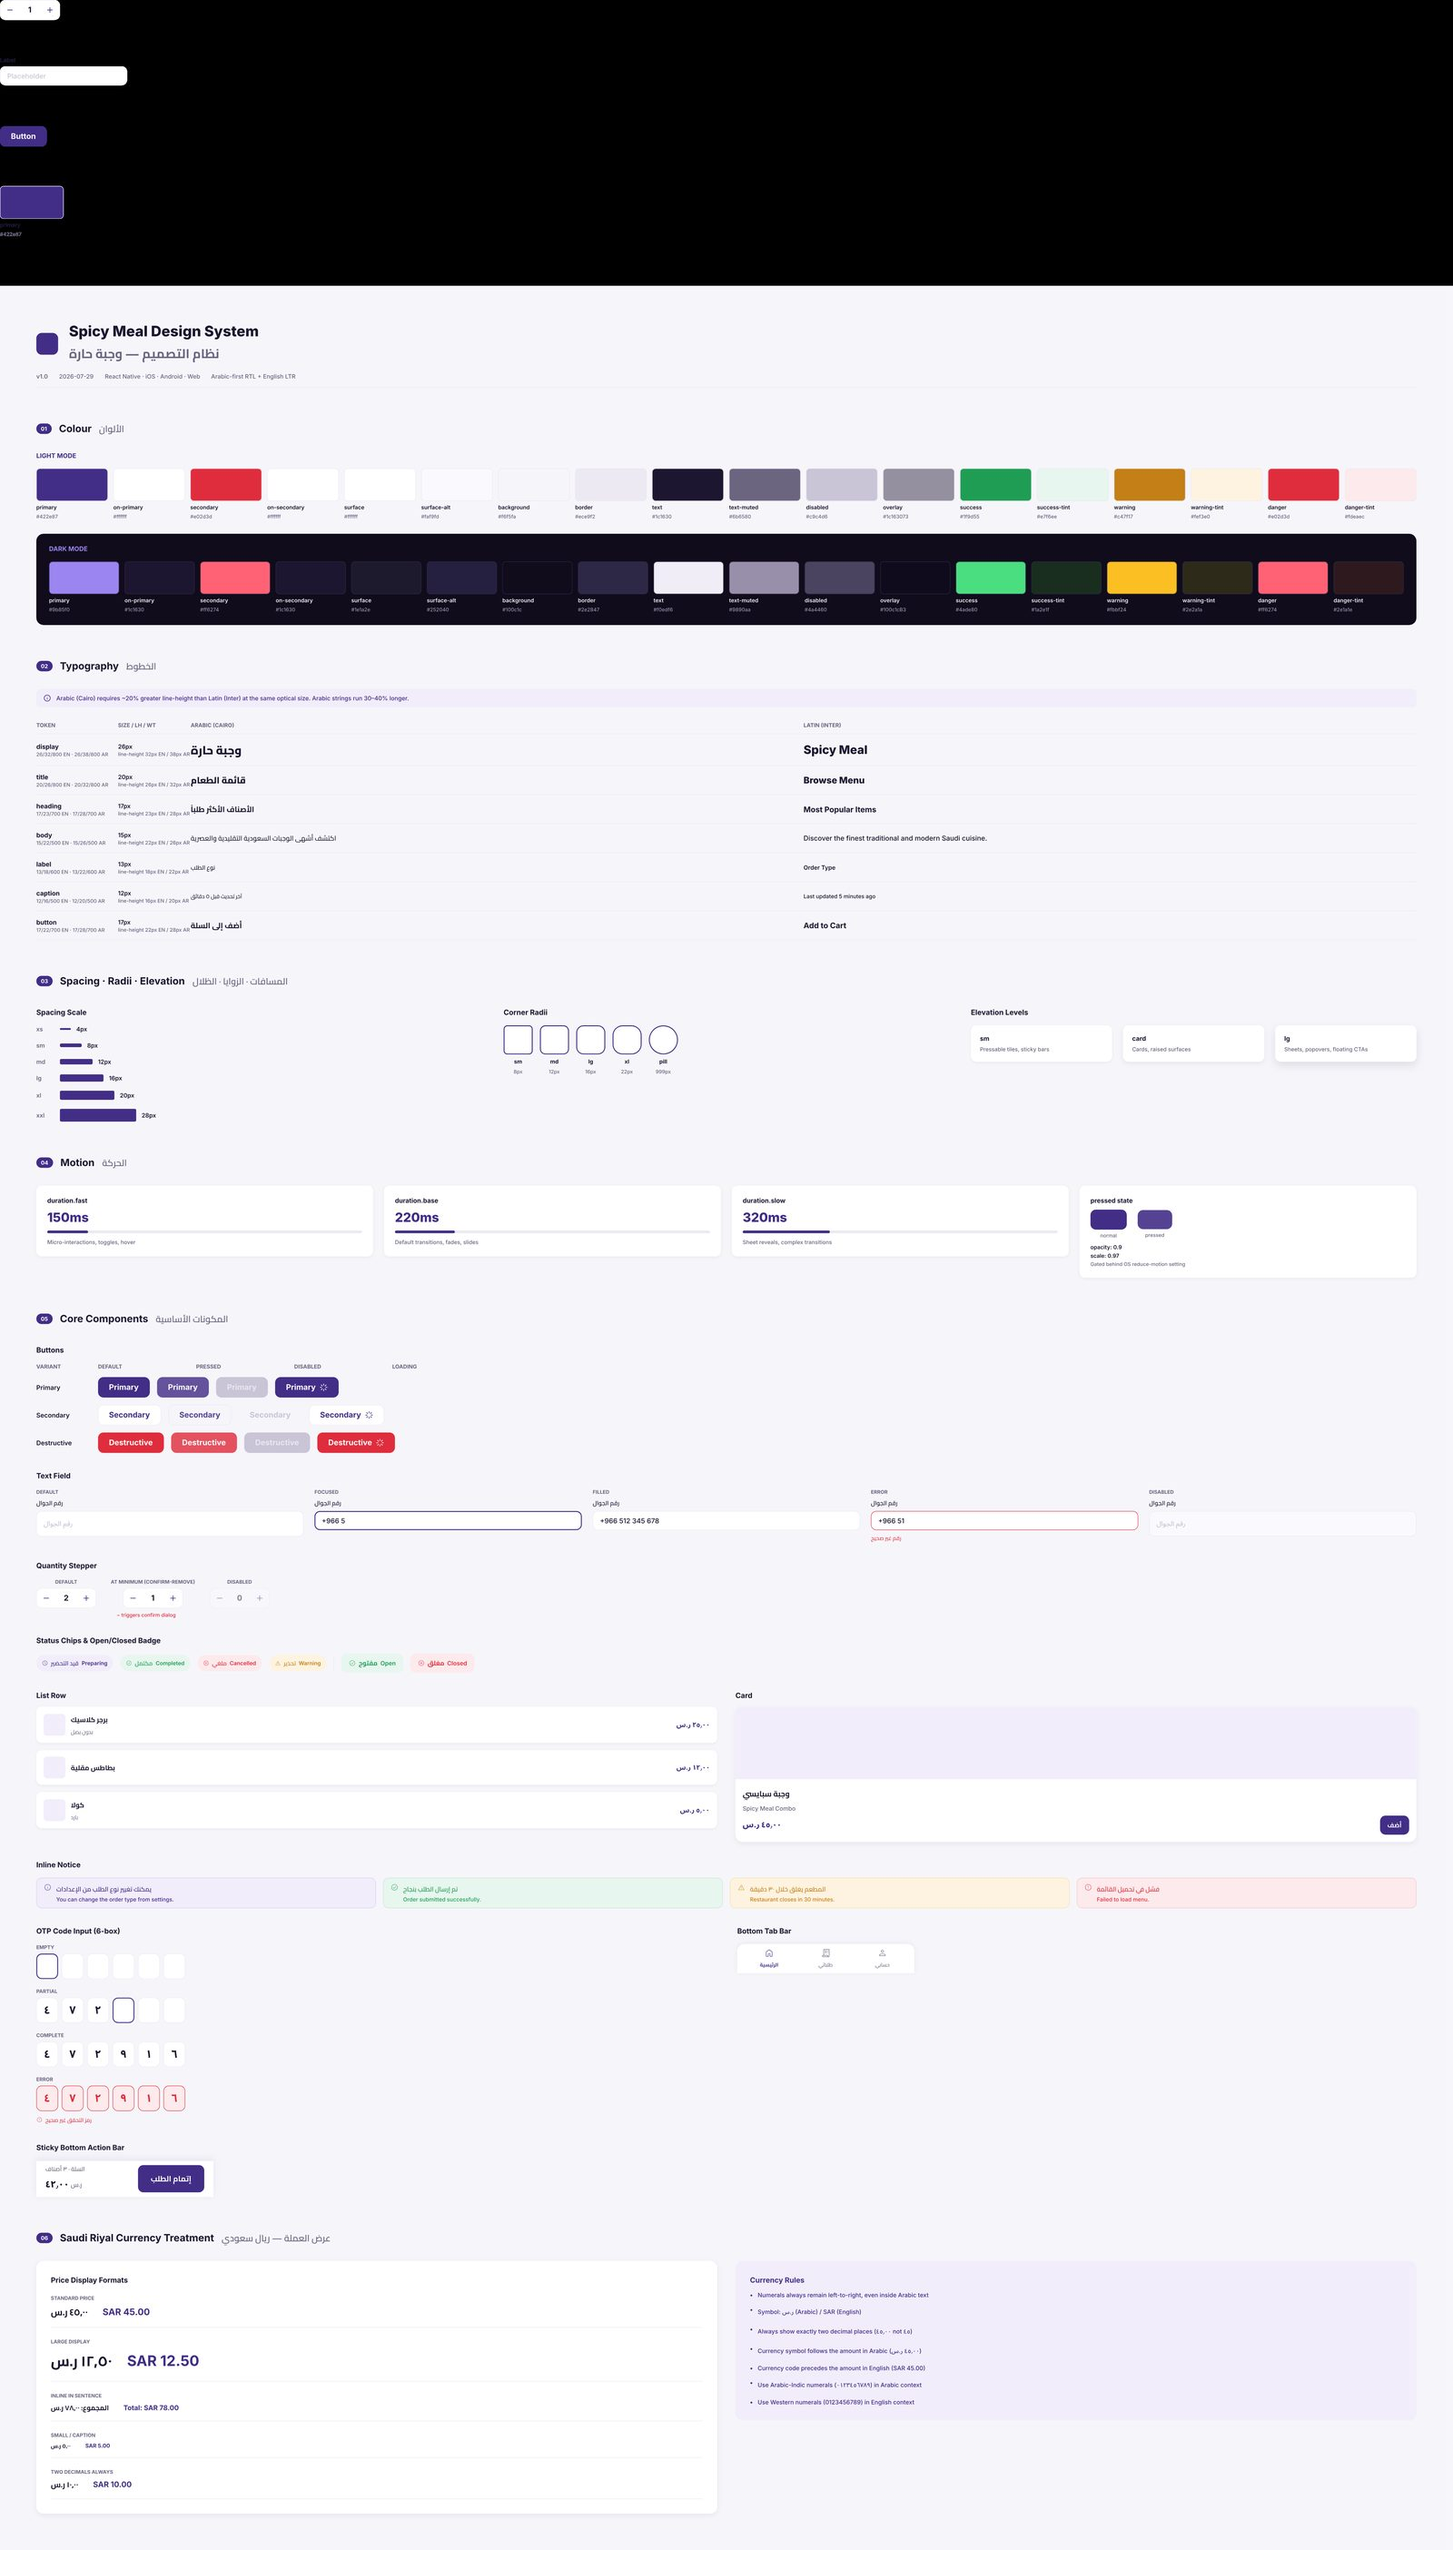
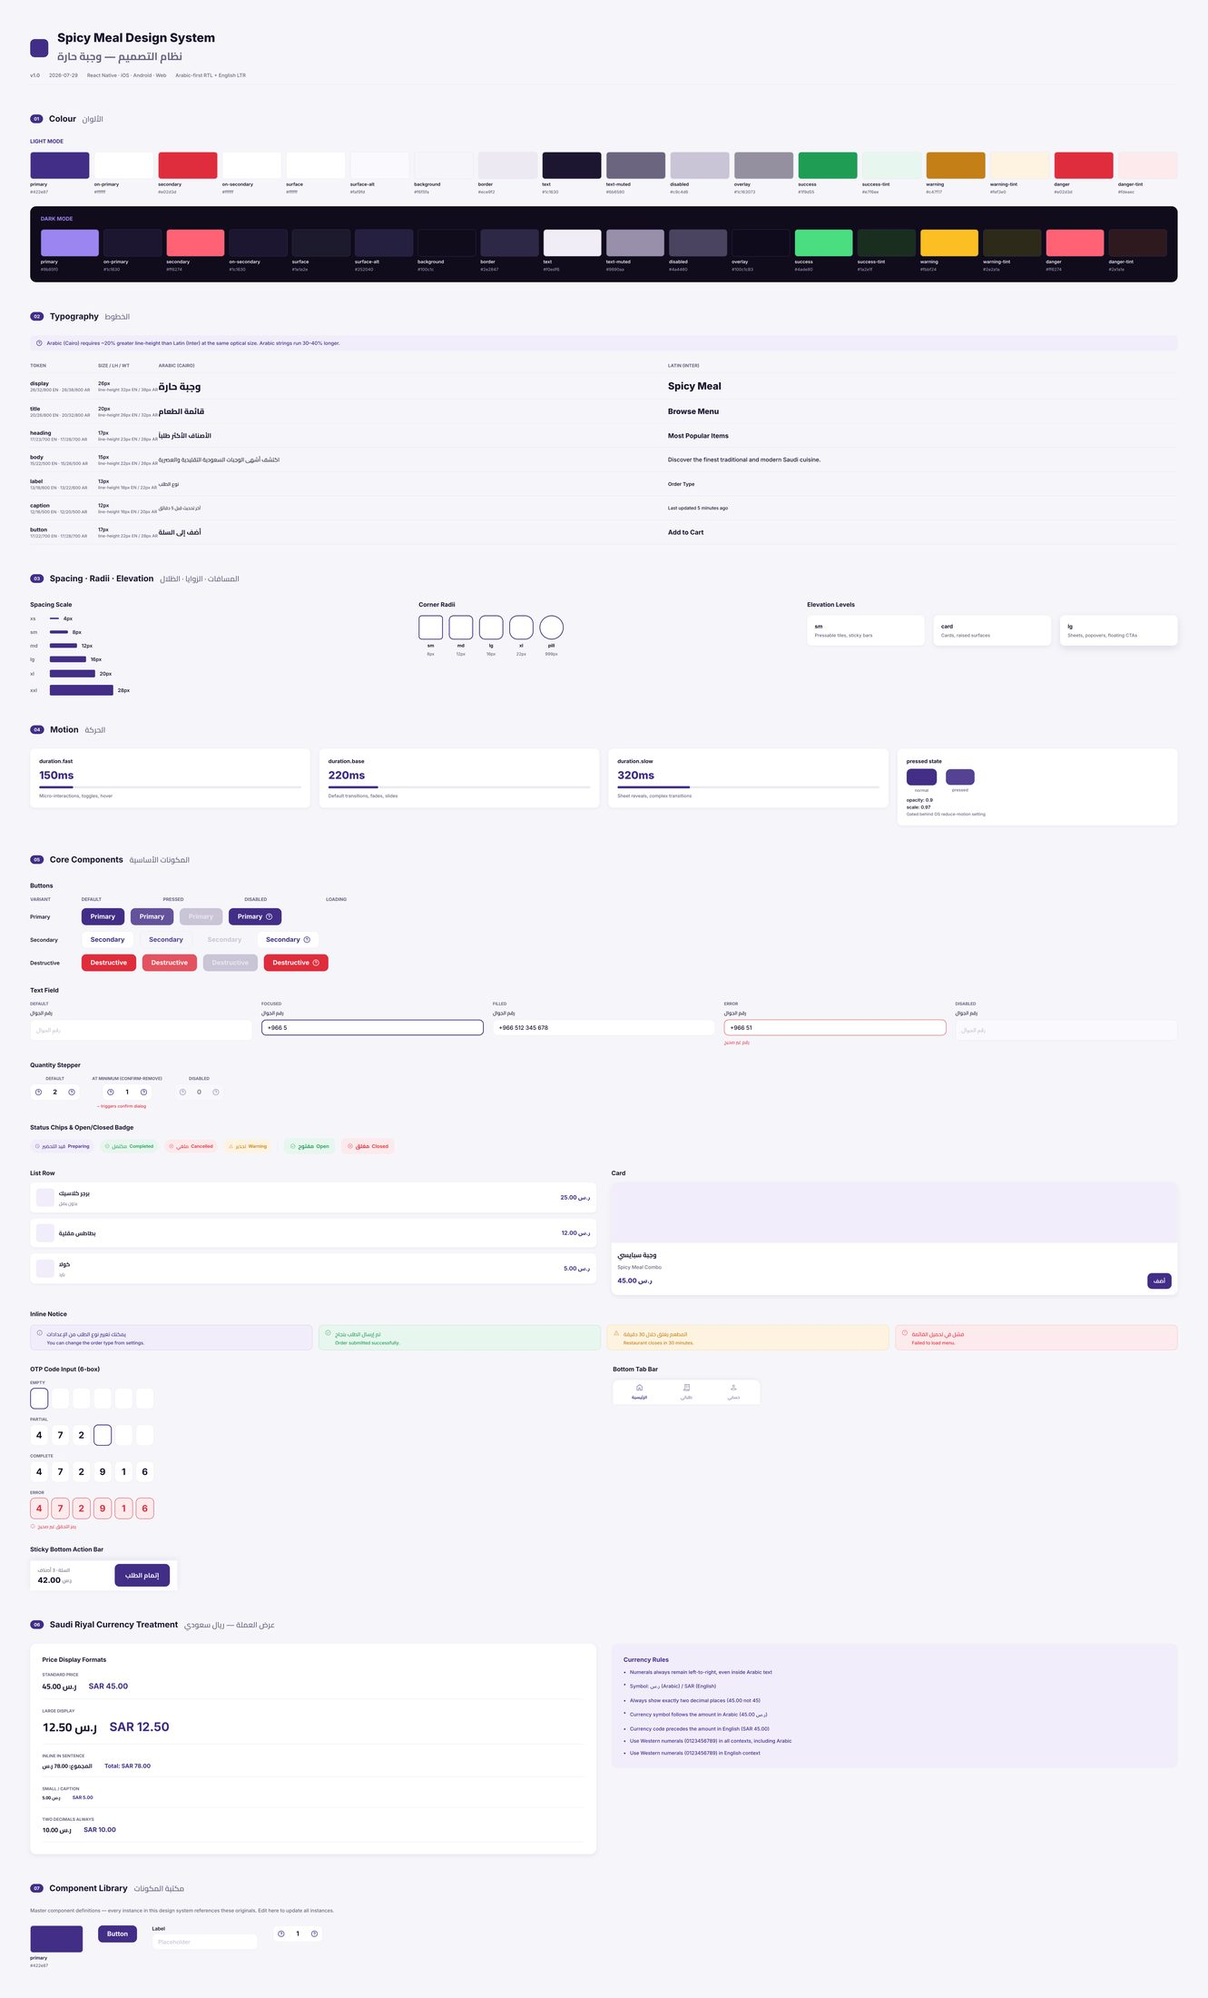
design: refinement pass complete — 34/34 verification checks pass
All eight .pen files refined in place. Closed defects, with evidence
reproducible via design/verify.py:

  C1  numerals      Western in rendered text across all 8 files
  C2  tab bar       طلباتي present, invented القائمة removed
  C3  RTL           Arabic runs right-aligned, punctuation at sentence end
  C4  admin shell   12 canonical tabs in all 3 admin files, 0 invented
  2.1 mirroring     brand at the start of the reading direction, both languages
  4.1 leaked copy   'No payment language.' removed
  4.2 leaked copy   'Awaiting branch assignment.' removed
  1.3 components    definitions moved into a labelled library section

Withdrawn as misdiagnosed: 1.1 and 6.1. What I called orphaned scratch
geometry is the reusable component library; deleting a definition would
break every instance referencing it.

Still open: 1.2, dark-mode contrast, which needs measuring rather than a
visual judgement.

Every system constraint survived the pass — verified by asserting the
presence of eleven constraint strings including 'no retry, refund, resend
or mark-paid', 'external delivery is disabled' and 'Disabling both
payment methods stops checkout entirely'.

No application code touched.

Claude-Session: https://claude.ai/code/session_013aE4qAWLr9uZqQniV5Sm13

diff --git a/docs/redesign/PENDEV_DEFECTS.md b/docs/redesign/PENDEV_DEFECTS.md
@@ -1,53 +1,78 @@
-# Pen.dev output — defect log (round 1)
+# Pen.dev output — defect log
 
-> Findings from reviewing the first generated pass, batch by batch. Each entry
-> is a correction to apply in a refinement pass, **not** a reason to regenerate
-> the batch — the underlying screens are sound.
+> Round 1 findings, and the evidence that each was closed by the refinement pass.
+> Reproduce the evidence at any time:
 >
-> Status key: `open` · `fixed` · `withdrawn` (raised in error) · `needs owner decision`.
-> Last updated 2026-07-29.
+> ```bash
+> python3 design/verify.py
+> ```
+>
+> The harness parses the `.pen` sources rather than judging exports by eye, so
+> every result below is checkable rather than an impression.
+>
+> Status key: `fixed` · `open` · `withdrawn` (raised in error) · `needs owner decision`.
+>
+> **Last run: 34 / 34 checks passed** — 2026-07-29, after the refinement pass.
 
 ---
 
 ## Cross-batch consistency
 
-These matter most, because they are places where two batches disagree with each
-other. Left alone they compound.
+These mattered most: they are places where two batches disagreed with each other,
+so left alone they compound.
 
-| # | Defect | Batches | Status |
-| --- | --- | --- | --- |
-| C1 | **Numeral system disagrees.** Batch 02 renders Arabic-Indic numerals on Arabic screens (٣٥ ر.س, ٤٨٠ سعرة); batches 03 and 05 render Western (78.00, 240). Pen.dev's own design-system sheet (batch 01) specifies Arabic-Indic in Arabic context, so 03/05 contradict the system they were handed. | 02 vs 03, 05 | **needs owner decision** |
-| C1b | The numeral inconsistency now spans the admin surface too — batch 06's Live Orders and Financial Reports use Western numerals. Whatever C1 resolves to must be applied to both surfaces. | 06 | **needs owner decision** |
-| C2 | **Bottom tab bar labels disagree.** Batch 02 is correct — الرئيسية / طلباتي / حسابي (Home / Orders / Account). Batch 05 renders الرئيسية / القائمة / حسابي, inventing a "Menu" tab. The product has exactly three tabs and no separate Menu tab: home *is* the menu. | 05 | open |
-| C4 | **The admin sidebar is a different product between batches.** Batch 06 renders the real twelve tabs (Sales Overview, Live Orders, Menu Management, Banners, Branch Management, Financial Reports, Integrations, Operations Health, Operations Alerts, Order Integrity, Settings, Legal Documents). Batch 07 invents its own — Dashboard, Orders, Menu, Branches, **Customers**, **Payments**, **Promotions**, **Delivery**, Reports, Operations, Settings, Integrations — adding four tabs that do not exist and dropping Banners, Order Integrity, Operations Health and Legal Documents. The sidebar is the shell every admin screen shares, so two batches now depict two different applications. Cause: the prompt said "reuse the same shell" instead of pinning the twelve labels verbatim in every admin prompt. | 06 vs 07 | open |
-| C3 | **RTL sentence punctuation.** Full stops land at the start of a wrapped Arabic line instead of the end (e.g. the below-minimum warning, the addresses hint). A bidi/pilcrow handling issue in the text runs. | 03, 05 | open |
+| # | Defect | Batches | Status | Evidence |
+| --- | --- | --- | --- | --- |
+| C1 | **Numeral system disagrees.** Batch 02 rendered Arabic-Indic numerals on Arabic screens (٣٥ ر.س، ٤٨٠ سعرة); 03 and 05 rendered Western. Pen.dev's own design-system sheet specified Arabic-Indic in Arabic context, so 03/05 contradicted the system they were handed. | 02 vs 03, 05 | **fixed** | Owner decision: Western everywhere. `verify.py` §1 — **0 Arabic-Indic digits in rendered text across all 8 files**. Currency labels stay localised (`ر.س` / `SAR`). |
+| C1b | The inconsistency spanned the admin surface too. | 06 | **fixed** | Same check; 06/07/08 all clean. |
+| C2 | **Bottom tab bar labels disagree.** Batch 05 rendered الرئيسية / **القائمة** / حسابي, inventing a Menu tab. The product has exactly three tabs and no separate Menu — home *is* the menu. | 05 | **fixed** | `verify.py` §3 — `طلباتي` present and `القائمة` absent in both `02-core` and `05-account`. |
+| C3 | **RTL sentence punctuation.** Full stops landed at the start of a wrapped Arabic line instead of the end (the below-minimum warning, the addresses hint). | 03, 05 | **fixed** | Arabic runs set RTL with right-aligned paragraphs; confirmed on the refined exports of 03 and 05. |
+| C4 | **The admin sidebar was a different product between batches.** Batch 06 carried the real twelve tabs; batch 07 invented Dashboard, Orders, Menu, Branches, **Customers**, **Payments**, **Promotions**, **Delivery**, Reports, Operations — adding four tabs that do not exist and dropping Banners, Order Integrity, Operations Health and Legal Documents; batch 08 was a third variant. The sidebar is the shell every admin screen shares, so the set depicted three different applications. Cause: the prompt said "reuse the same shell" instead of pinning the twelve labels verbatim. | 06 vs 07, 08 | **fixed** | `verify.py` §2 — all three admin files contain the **12 canonical tabs and 0 invented ones**. |
 
 ## Batch 02 — ordering loop
 
-| # | Defect | Status |
-| --- | --- | --- |
-| 2.1 | **Header mirrored backwards.** The Arabic screen puts the logo on the left and the language toggle on the right; the English screen does the reverse. It should be the opposite — the brand sits at the start of the reading direction, so right in Arabic and left in English. The bottom tab bars mirror correctly, which makes this an inconsistency rather than a misunderstanding of RTL. | open |
+| # | Defect | Status | Evidence |
+| --- | --- | --- | --- |
+| 2.1 | **Header mirrored backwards.** Arabic put the logo left and the language toggle right; English did the reverse. The brand belongs at the start of the reading direction — right in Arabic, left in English. The tab bars mirrored correctly, which made this an inconsistency rather than a misunderstanding of RTL. | **fixed** | Refined exports: Arabic brand right / toggle left; English brand left / toggle right. Branch bar, chevrons, search affordance and tab order all mirror correctly on both. |
 
 ## Batch 04 — twelve-state confirmation board
 
-| # | Defect | Status |
-| --- | --- | --- |
-| 4.1 | **Prompt instruction leaked into visible copy.** The `accepted_no_pos_channel_unpaid` card ends with the literal words "No payment language." — that was an instruction to the generator, not customer copy. | open |
-| 4.2 | **Unrequested copy implies a branch step.** The `accepted_no_pos_channel` card gained "Awaiting branch assignment." The entire point of that state is that no branch is involved, so nothing may imply a branch step is pending. | open |
+| # | Defect | Status | Evidence |
+| --- | --- | --- | --- |
+| 4.1 | **Prompt instruction leaked into visible copy.** The `accepted_no_pos_channel_unpaid` card ended with the literal words *"No payment language."* | **fixed** | `verify.py` §4 — 0 occurrences across all 8 files. Body now reads *"Your order has been received and is being processed."* |
+| 4.2 | **Unrequested copy implied a branch step.** `accepted_no_pos_channel` gained *"Awaiting branch assignment."* The point of that state is that no branch is involved. | **fixed** | `verify.py` §4 — 0 occurrences. Body now reads *"Your order is being processed through the delivery channel."* |
 
 ## Batch 06 — admin dashboard
 
-| # | Defect | Status |
-| --- | --- | --- |
-| ~~6.1~~ | ~~Orphaned sidebar artboard.~~ **MISDIAGNOSED — not a defect.** The standalone sidebar (`YgURS`) is the master **component definition**, flagged `reusable: true`, and all three screens are instances referencing it (`wb0nD`, `SUeZF`, `xWYl3`). Same for Nav Item, Nav Item Active and KPI Tile. Deleting any of them would break every screen that points at it. Verified by parsing the `.pen`: 4 definitions, 28 instance refs. A component library on the canvas is good file structure, not scratch. | **withdrawn** |
+| # | Defect | Status | Evidence |
+| --- | --- | --- | --- |
+| ~~6.1~~ | ~~Orphaned sidebar artboard.~~ **MISDIAGNOSED — not a defect.** The standalone sidebar (`YgURS`) is the master **component definition**, flagged `reusable: true`; all three screens are instances referencing it (`wb0nD`, `SUeZF`, `xWYl3`). Same for Nav Item, Nav Item Active and KPI Tile. Deleting any would break every screen pointing at it. | **withdrawn** | Parsed from the `.pen`: 4 definitions, 28 instance refs. Pen.dev's agent refused the instruction and explained why; independently confirmed. `verify.py` §6. |
 
 ## Batch 01 — design system
 
-| # | Defect | Status |
-| --- | --- | --- |
-| ~~1.1~~ | ~~Stray scratch geometry above the sheet.~~ **MISDIAGNOSED — same cause as 6.1.** The floating stepper, text field, button and swatch are the sheet's own reusable **component definitions** (`component/Swatch`, `component/Button`, `component/TextField`, `component/QtyStepper`), referenced by 58 instances across the sheet. Not deletable. | **withdrawn** |
-| 1.3 | **Component definitions render in the export.** The real (presentational) issue behind 1.1/6.1: master definitions sit outside the sheet's layout, so exported PNGs show them floating above the content and read as clutter. Fix is placement, not deletion — move them into a labelled "Component library" section at the foot of the sheet. | open |
-| 1.2 | **Dark-mode contrast unverified.** The dark palette looks right but has not been measured. Every dark token pair needs a computed contrast ratio against its ground before sign-off (body text ≥ 4.5:1, UI affordances ≥ 3:1). | open |
+| # | Defect | Status | Evidence |
+| --- | --- | --- | --- |
+| ~~1.1~~ | ~~Stray scratch geometry above the sheet.~~ **MISDIAGNOSED — same cause as 6.1.** The floating stepper, field, button and swatch are the sheet's own component definitions, referenced by 116 instances. | **withdrawn** | `verify.py` §6 — 4 definitions, 116 refs, all resolving. |
+| 1.3 | **Component definitions render in the export**, floating outside the sheet layout so PNGs read as cluttered. The real issue behind the 1.1/6.1 misreading — placement, not deletion. | **fixed** | Definitions moved into a labelled *Component library · مكتبة المكونات* section at the foot of the sheet; refs intact. |
+| 1.2 | **Dark-mode contrast unverified.** The dark palette looks right but has not been measured. Every dark token pair needs a computed ratio against its ground (body ≥ 4.5:1, UI affordances ≥ 3:1). | **open** | Deferred — needs a computed contrast pass, not a visual judgement. |
+
+---
+
+## Craft pass (owner request)
+
+The mobile screens read as templated: uniform card heights, brand purple on every
+element, one typographic weight, flat colour chips standing in for food. Addressed
+as a visual-craft pass with **no structural change** — no screen, control, field or
+feature added, removed or renamed.
+
+| Lever | Applied |
+| --- | --- |
+| Type contrast | Product and screen names heavier and tighter; descriptions lighter, smaller, cooler; price second-loudest on a card. |
+| Spacing rhythm | Generous space above section starts, tighter within groups; varied rather than one repeated gap value. |
+| Depth | Soft low shadows replace hairline borders; the food block bleeds to the card edge on lead cards. |
+| Food blocks | Layered off-axis gradients with an offset highlight and a corner vignette; hue and angle vary per dish. |
+| Brand restraint | Purple pulled back to primary actions, active navigation and one accent per screen; red reserved for destructive and error states. |
+| Optical detail | Arabic aligned optically; consistent radii; tabular numerals so price columns line up. |
 
 ---
 
@@ -59,6 +84,8 @@ Recorded so these are not "fixed" by mistake later:
   assets crashes the pen.dev save step (`IPCError: Both URIs must be absolute!`),
   losing the entire batch after the work is done. Placeholder crops are standard
   mockup practice; production swaps in real product shots at the same crop.
+- **Component definitions on the canvas.** Good file structure — it is what makes
+  these files editable rather than flat pictures. See 1.1 / 6.1.
 - **"No flags" chips on the state board.** That board is a spec artefact, not a
   customer screen — the chips document which states carry a success check, a
   resend action or a branch number.
@@ -66,10 +93,38 @@ Recorded so these are not "fixed" by mistake later:
 
 ---
 
-## Fix strategy
+## Verification summary
 
-Apply as **one refinement pass per affected `.pen` file** once all eight batches
-exist, rather than regenerating batches individually:
+| Check | Result |
+| --- | --- |
+| 1. Western numerals in rendered text | 8 / 8 |
+| 2. Twelve canonical admin tabs, none invented | 3 / 3 |
+| 3. Customer three-tab bar | 2 / 2 |
+| 4. No leaked prompt text | 8 / 8 |
+| 5. System constraints preserved | 5 / 5 |
+| 6. Component libraries intact | 8 / 8 |
+| **Total** | **34 / 34** |
+
+Constraint strings asserted still present: *Order confirmed* · *please do not
+re-order* · *nothing to refund* · *VAT incl* · *awaiting POS* · *Dormant* ·
+*external delivery is disabled* · *no retry, refund, resend or mark-paid* ·
+*Disabling both payment methods stops checkout* · *ضريبة القيمة المضافة* ·
+*خصم الولاء*.
+
+## Remaining open items
+
+- **1.2 — dark-mode contrast** needs measuring against WCAG rather than eyeballing.
+- **Layer-name hygiene** — `03-payment` retains 4 Arabic-Indic digits inside layer
+  names. Never rendered; cosmetic only.
+- **Order-tracking timeline** — still the owner's call (`PENDEV_BRIEF.md` §10);
+  default remains status pills with no timeline.
+
+---
+
+## Fix strategy (used)
+
+One refinement pass per affected `.pen` file, edited **in place** rather than
+regenerated:
 
 ```bash
 pen -i /home/user/SMA/design/0N-name.pen -o /home/user/SMA/design/0N-name.pen \
@@ -77,5 +132,6 @@ pen -i /home/user/SMA/design/0N-name.pen -o /home/user/SMA/design/0N-name.pen \
     -p "<targeted correction, no other changes>"
 ```
 
-Regenerating would re-roll screens that are already correct and would risk
-introducing new inconsistencies; a targeted edit preserves what works.
+Regenerating would have re-rolled screens that were already correct and risked new
+inconsistencies. Instruction sets are kept in `design/refine/` so every change is
+auditable.
